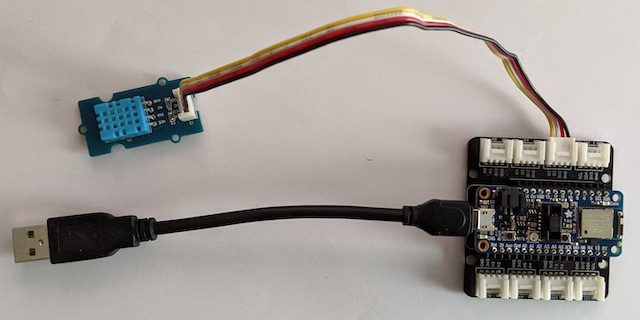
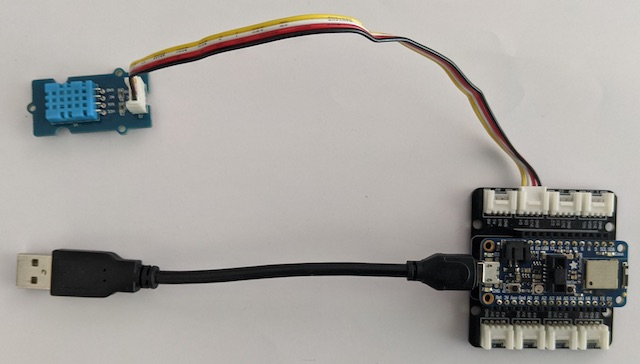
fixed some missing pieces

diff --git a/data-acquisition/CircuitPython/dht/dht.py b/data-acquisition/CircuitPython/dht/dht.py
@@ -1,42 +1,31 @@
 import time
-import rtc
-import digitalio
 import adafruit_dht
 import board
 
-INTERVAL = 15
+# Constants
+INTERVAL = 5
 
-
-def setup():
-    # set the time manually, we are not using a real time clock!
-    now = time.struct_time((2020, 8, 3, 18, 14, 0, 1, -1, -1))
-    r = rtc.RTC()
-    r.datetime = now
-
-    # D5 => Pin D2 on Grove Board; see https://github.com/tamberg/fhnw-idb/wiki/Grove-Adapters#mapping
-    dht = adafruit_dht.DHT11(board.D5)
-    return dht
+# Setup
+dht = adafruit_dht.DHT11(board.D9)  # nRF52840, Grove D4
     
-def measure():
-    dht = setup()
-    
-    while True:
-        start = time.time()
-        t = time.localtime(start)
-        try:
-            # Read the temperature and convert it to integer
-            temperature = int(round(dht.temperature))
-            # Read the humidity and convert it to integer
-            humidity = int(round(dht.humidity))
-            # Print timestamp, temperatur, humidity
-            print("{:d}:{:02d}:{:02d},{:g},{:g}".format(
-                t.tm_hour, t.tm_min, t.tm_sec, temperature, humidity))
+# Main Loop
+while True:
+    start = time.time()
+    t = time.localtime(start)
+    try:
+        # Read the temperature and convert it to integer
+        temperature = int(round(dht.temperature))
+        # Read the humidity and convert it to integer
+        humidity = int(round(dht.humidity))
+        # Print timestamp, temperatur, humidity
+        print("{:d}:{:02d}:{:02d},{:g},{:g}".format(
+            t.tm_hour, t.tm_min, t.tm_sec, temperature, humidity))
 
-        except RuntimeError as e:
-            # Reading doesn't always work! Just print error and we'll try again
-            print("{:d}:{:02d}:{:02d},{:g},{:g}".format(
-                t.tm_hour, t.tm_min, t.tm_sec, -1, -1))
+    except RuntimeError as e:
+        # Reading doesn't always work! Just print error and we'll try again
+        print("{:d}:{:02d}:{:02d},{:g},{:g}".format(
+            t.tm_hour, t.tm_min, t.tm_sec, -1, -1))
 
-        end = time.time()
-        # Wait for the remaining time
-        time.sleep(INTERVAL - (end - start))
+    end = time.time()
+    # Wait for the remaining time
+    time.sleep(INTERVAL - (end - start))

diff --git a/data-acquisition/CircuitPython/dht/README.md b/data-acquisition/CircuitPython/dht/README.md
@@ -1,20 +1,26 @@
 # Reading a DHT temperature & humidity sensor
 How to read and visualize a DHT sensor with CircuitPython.
 
+## Dependencies
+
+You will need to download and to install the library `adafruit_dht.mpy`. You can find it as part of the [Adafruit CircuitPython Library Bundle](https://github.com/adafruit/Adafruit_CircuitPython_Bundle#adafruit-circuitpython-library-bundle). Download manually the [latest 5.x release](https://github.com/adafruit/Adafruit_CircuitPython_Bundle/releases/tag/20200807).
 
 ## Running the example
 * Set up the [hardware](#Hardware), connect it to your computer via USB.
 * Copy the content of [dht.py](dht.py) to _code.py_ on the _CIRCUITPY_ drive.
+* Copy the library `adafruit_dht.mpy` into the folder `lib` on the _CIRCUITPY_ drive.
 * Consider opening the [serial plotter](https://codewith.mu/en/tutorials/1.0/plotter) (available if you are using the [Mu Python editor](https://github.com/tamberg/fhnw-idb/wiki/Mu-Python-editor)).
+
+**Note**, that the timestamps are not synchronized with the actual time. We are not using a battery-buffered Real Time Clock (RTC).
 
 ## Hardware
 * [Feather nRF52840 Express](https://github.com/tamberg/fhnw-idb/wiki/Feather-nRF52840-Express) microcontroller.
 * [Grove shield for Feather](https://github.com/tamberg/fhnw-idb/wiki/Grove-Adapters#grove-shield-for-feather) to connect sensors.
-* [DHT11](https://github.com/tamberg/fhnw-idb/wiki/Grove-Sensors#temperature--humidity-sensor-dht11) wired to Grove _D2_ (nRF52840 _D5_) (see figure 1).
+* [DHT11](https://github.com/tamberg/fhnw-idb/wiki/Grove-Sensors#temperature--humidity-sensor-dht11) wired to Grove _D4_ (nRF52840 _D9_) (see figure 1).
 
 <img src="dht.jpg" width="640">
 
-Figure 1: DHT sensor connected to PIN D2
+Figure 1: DHT sensor connected to PIN D4
 
 ## Visualize and Analyse the sensor values
 
